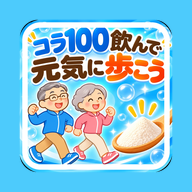
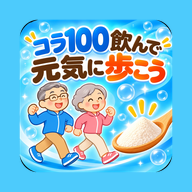
v1.10.0 トップの背景に空と泡、ボタンに ChatGPT のアイコン、今日のひとことは枠なし
- 背景：上はうすい水色の空→白、泡とキラキラ、下に青とオレンジのやわらかい波
- ロゴとメインビジュアルの白い背景を透明に（外側からつながった白だけ。粉の白は守る・足元の影は半透明に）
- メニューボタンのアイコンを ChatGPT で作った白い丸バッジの絵に
- 今日のひとことの枠と地の色をなくした
- ホーム画面アイコンの白い縁取り線を外した
- sw.js: キャッシュ standsit-v38

Changed region(s): [[0.0938, 0.0938, 0.9062, 0.9062]]

diff --git a/index.html b/index.html
@@ -34,7 +34,6 @@
       font-family: 'Noto Sans JP', sans-serif;
     }
 
-    body { background: #ffffff; }
 
     .container {
       min-height: 100vh;
@@ -251,7 +250,6 @@
     .card-icon { color: #fff; }
 
     /* ===== トップ v1.8（ChatGPT のデザイン案をもとに） ===== */
-    body { background: #ffffff; }
     .container { justify-content: flex-start; padding-top: 28px; }
     .hero-wrap { margin-bottom: 16px; }
     .hero-text { display: block; width: 100%; max-width: 330px; height: auto; margin: 0 auto 2px; }
@@ -294,13 +292,47 @@
     .menu .mt span { display: block; font-size: 13.5px; font-weight: 700; opacity: .92; margin-top: 2px; }
     .menu .ma { font-size: 30px; font-weight: 900; opacity: .9; }
     .footer { margin-top: 30px; }
+
+    /* ===== 背景（ロゴの絵と同じ空の雰囲気）・v1.10 ===== */
+    html { background: #ffffff; }
+    body {
+      position: relative; overflow-x: hidden;
+      background:
+        radial-gradient(140% 70% at 50% 108%, rgba(255,160,0,.20) 0%, transparent 38%),
+        radial-gradient(160% 60% at 50% 112%, rgba(63,123,208,.22) 0%, transparent 45%),
+        linear-gradient(180deg, #d6eeff 0%, #ebf7ff 30%, #ffffff 58%, #ffffff 100%);
+      background-attachment: scroll;
+    }
+    .bubbles { position: absolute; inset: 0; pointer-events: none; overflow: hidden; z-index: 0; }
+    .bubbles i {
+      position: absolute; border-radius: 50%;
+      background: radial-gradient(circle at 32% 30%, rgba(255,255,255,.95) 0 18%, rgba(255,255,255,.35) 40%, rgba(120,190,255,.18) 70%, rgba(120,190,255,.05) 100%);
+      box-shadow: inset 0 0 0 1.5px rgba(255,255,255,.7);
+    }
+    .sparkle { position: absolute; color: #ffb300; font-size: 18px; pointer-events: none; }
+    .container { position: relative; z-index: 1; }
+    /* 今日のひとこと：枠なし */
+    .today-card { background: none; border: none; box-shadow: none; padding: 4px 6px; justify-content: center; margin-bottom: 14px; }
+    .today-msg { text-align: left; }
+    /* ボタンのアイコン（ChatGPT で作った白い丸のバッジ） */
+    .menu img.mi { width: 60px; height: 60px; filter: drop-shadow(0 2px 4px rgba(0,0,0,.18)); }
   </style>
 </head>
 <body>
+  <div class="bubbles" aria-hidden="true">
+    <i style="left:4%;top:60px;width:34px;height:34px"></i>
+    <i style="left:84%;top:40px;width:22px;height:22px"></i>
+    <i style="left:88%;top:210px;width:40px;height:40px"></i>
+    <i style="left:2%;top:330px;width:18px;height:18px"></i>
+    <i style="left:78%;top:420px;width:16px;height:16px"></i>
+    <i style="left:8%;top:560px;width:26px;height:26px"></i>
+    <span class="sparkle" style="left:12%;top:150px">✦</span>
+    <span class="sparkle" style="left:86%;top:330px;font-size:14px">✦</span>
+  </div>
   <div class="container">
     <div class="hero-wrap">
-      <img class="hero-text" src="img/logo-text.webp" width="900" height="385" alt="コラ100飲んで元気に歩こう（コラ100運動アプリ）">
-      <img class="hero-visual" src="img/visual.webp" width="790" height="506" alt="元気に歩く男女と、粉末コラーゲンを盛ったスプーン">
+      <img class="hero-text" src="img/logo-text-a.webp" width="900" height="385" alt="コラ100飲んで元気に歩こう（コラ100運動アプリ）">
+      <img class="hero-visual" src="img/visual-c.webp" width="790" height="506" alt="元気に歩く男女と、粉末コラーゲンを盛ったスプーン">
     </div>
 
     <!-- 今日のひとこと：貯筋通帳の記録から（端末の中のデータ） -->
@@ -314,10 +346,10 @@
 
     <nav class="menu">
       <!-- 「運動を始める」（measure.html・いす座り立ち10回のテスト）はトップから外した。画面と記録は残してある（2026-11-26） -->
-      <a href="kyokin.html"><svg class="mi" viewBox="0 0 56 56" fill="none" stroke="#fff" stroke-width="3.2" stroke-linecap="round" stroke-linejoin="round"><path d="M6 16V8h8M42 8h8v8M50 40v8h-8M14 48H6v-8" opacity=".85"/><circle cx="30" cy="14" r="4" fill="#fff" stroke="none"/><path d="M29 20l-3 12 6 6v8M26 32l-6 14M27 23l-8 5M30 22l9-5"/></svg><span class="mt"><b>貯筋運動</b><span>10種目をカメラで数えて採点</span></span><span class="ma">›</span></a>
-      <a href="tsucho.html" class="vit"><svg class="mi" viewBox="0 0 56 56" fill="none" stroke="#fff" stroke-width="3.2" stroke-linecap="round" stroke-linejoin="round"><path d="M28 14c-6-4-14-4-20-2v30c6-2 14-2 20 2 6-4 14-4 20-2V12c-6-2-14-2-20 2z" fill="#fff" fill-opacity=".18"/><path d="M28 14v30"/><circle cx="39" cy="27" r="6" fill="#fff" stroke="none"/><circle cx="39" cy="27" r="3.4" fill="#ef6c00" stroke="none"/></svg><span class="mt"><b>貯筋通帳</b><span>運動とコラーゲンのハンコ</span></span><span class="ma">›</span></a>
-      <a href="history.html"><svg class="mi" viewBox="0 0 56 56" fill="none" stroke="#fff" stroke-width="3.2" stroke-linecap="round" stroke-linejoin="round"><path d="M10 46h38"/><rect x="13" y="32" width="7" height="12" rx="1.5" fill="#fff"/><rect x="25" y="25" width="7" height="19" rx="1.5" fill="#fff"/><rect x="37" y="18" width="7" height="26" rx="1.5" fill="#fff"/><path d="M12 24l12-8 8 4 12-10M38 10h6v6" stroke="#ffd27a"/></svg><span class="mt"><b>記録を見る</b><span>これまでの記録を確認</span></span><span class="ma">›</span></a>
-      <a href="settings.html"><svg class="mi" viewBox="0 0 56 56" fill="none" stroke="#fff" stroke-width="3.2" stroke-linecap="round" stroke-linejoin="round"><circle cx="28" cy="28" r="7"/><path d="M28 8v6M28 42v6M8 28h6M42 28h6M13.9 13.9l4.2 4.2M37.9 37.9l4.2 4.2M13.9 42.1l4.2-4.2M37.9 18.1l4.2-4.2"/><circle cx="28" cy="28" r="15" stroke-width="3"/></svg><span class="mt"><b>設定</b><span>アプリの設定を変更</span></span><span class="ma">›</span></a>
+      <a href="kyokin.html"><img class="mi" src="img/btn-kyokin.webp" width="192" height="192" alt=""><span class="mt"><b>貯筋運動</b><span>10種目をカメラで数えて採点</span></span><span class="ma">›</span></a>
+      <a href="tsucho.html" class="vit"><img class="mi" src="img/btn-tsucho.webp" width="192" height="192" alt=""><span class="mt"><b>貯筋通帳</b><span>運動とコラーゲンのハンコ</span></span><span class="ma">›</span></a>
+      <a href="history.html"><img class="mi" src="img/btn-history.webp" width="192" height="192" alt=""><span class="mt"><b>記録を見る</b><span>これまでの記録を確認</span></span><span class="ma">›</span></a>
+      <a href="settings.html"><img class="mi" src="img/btn-settings.webp" width="192" height="192" alt=""><span class="mt"><b>設定</b><span>アプリの設定を変更</span></span><span class="ma">›</span></a>
     </nav>
 
     <!-- Android用インストールボタン -->
@@ -330,7 +362,7 @@
       <strong>「ホーム画面に追加」</strong> を選んでください
     </div>
 
-    <p class="footer">毎日少しずつ、続けることが大切です 🌸<br><span style="font-size:11px; color: var(--text-dim);">v1.9.0</span></p>
+    <p class="footer">毎日少しずつ、続けることが大切です 🌸<br><span style="font-size:11px; color: var(--text-dim);">v1.10.0</span></p>
   </div>
 
   <script>

diff --git a/sw.js b/sw.js
@@ -1,4 +1,4 @@
-const CACHE_NAME = 'standsit-v37';
+const CACHE_NAME = 'standsit-v38';
 
 const BASE = '/standsit-pwa';
 
@@ -18,8 +18,12 @@ const PRECACHE_URLS = [
   BASE + '/icon-512.png',
   BASE + '/icon-maskable-192.png',
   BASE + '/icon-maskable-512.png',
-  BASE + '/img/logo-text.webp',
-  BASE + '/img/visual.webp',
+  BASE + '/img/logo-text-a.webp',
+  BASE + '/img/visual-c.webp',
+  BASE + '/img/btn-kyokin.webp',
+  BASE + '/img/btn-tsucho.webp',
+  BASE + '/img/btn-history.webp',
+  BASE + '/img/btn-settings.webp',
   // MediaPipe
   BASE + '/mediapipe/camera_utils/camera_utils.js',
   BASE + '/mediapipe/drawing_utils/drawing_utils.js',
